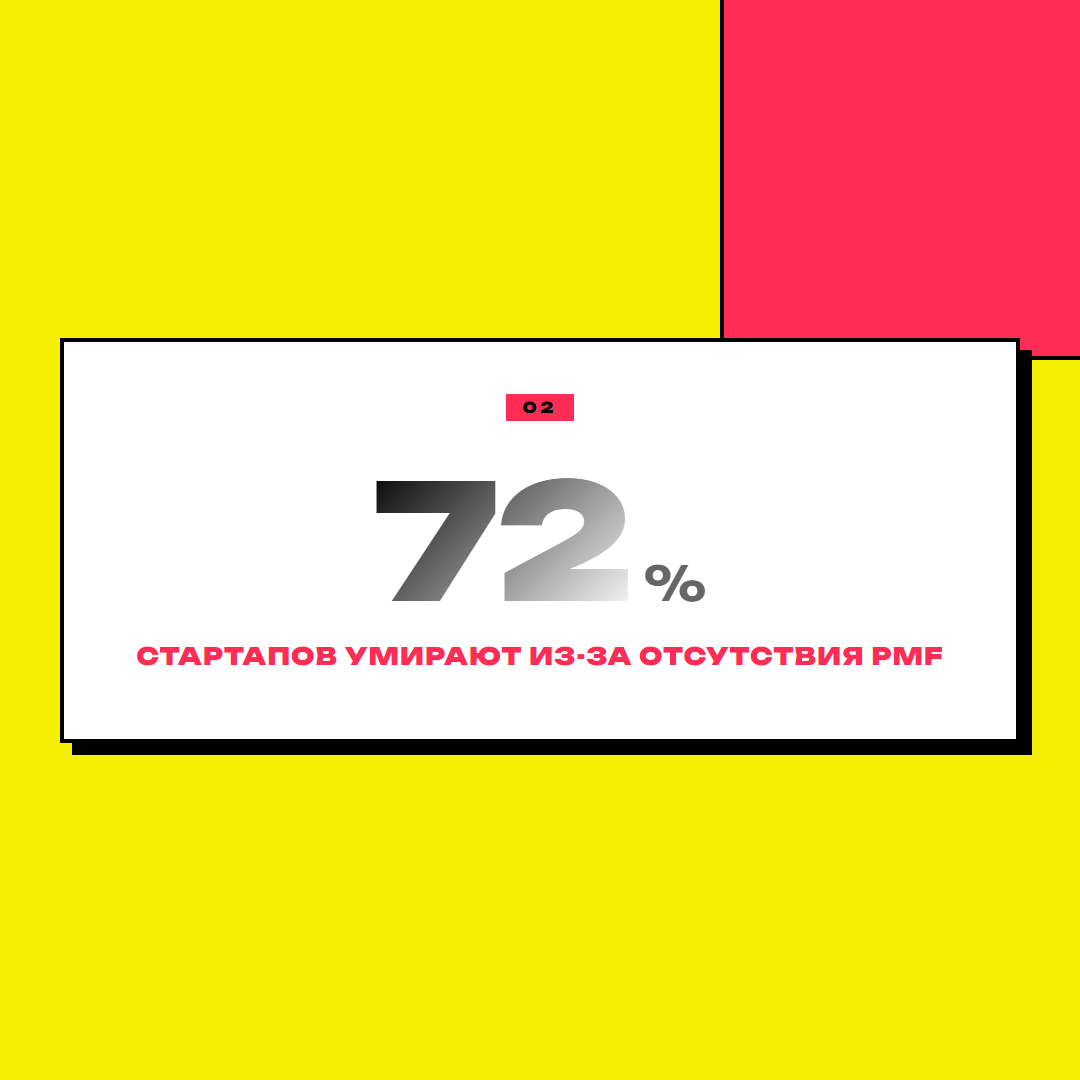
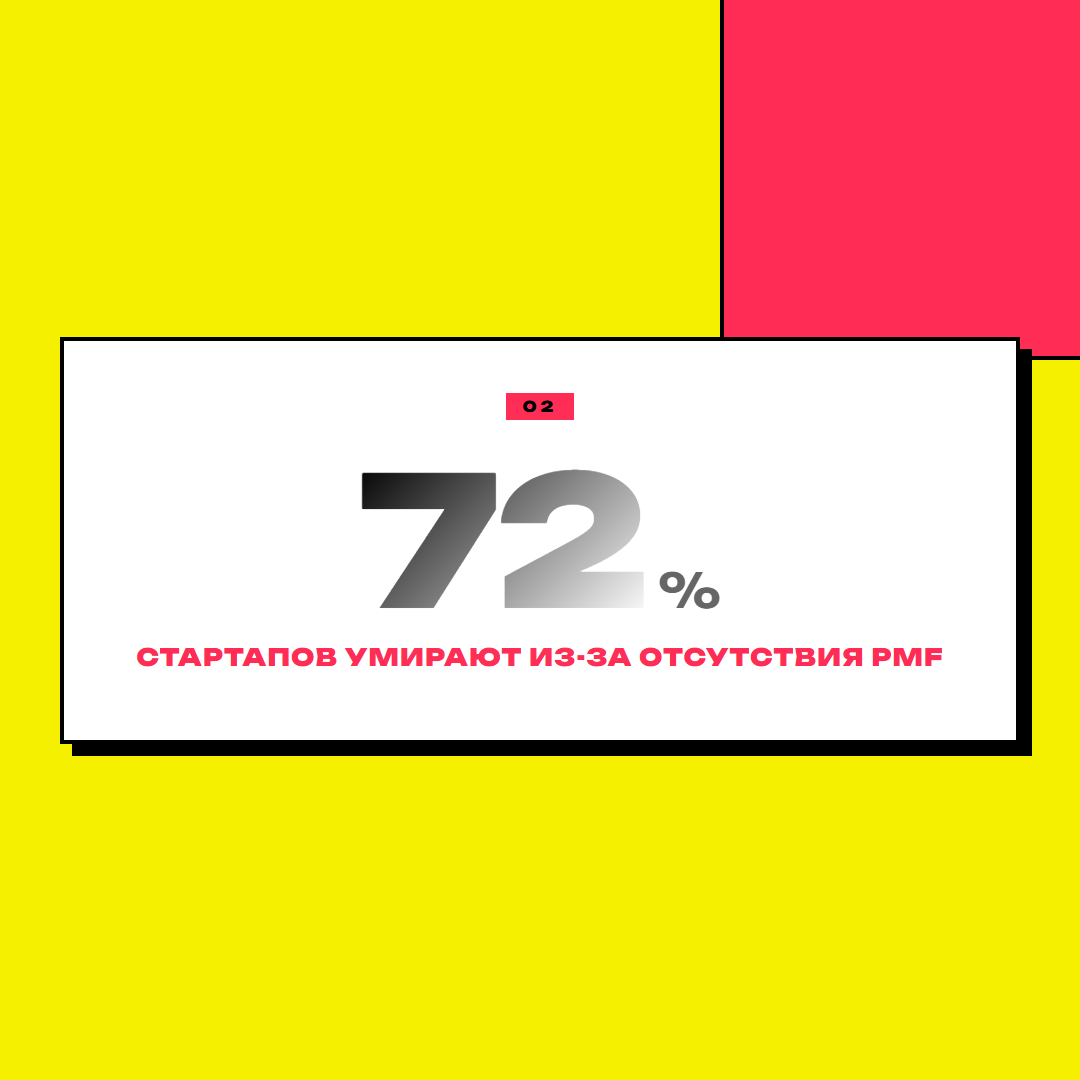
v3.1: Fix MCP entry path, enhance visual drama, regenerate previews

diff --git a/src/core/slideLayouts.ts b/src/core/slideLayouts.ts
@@ -355,14 +355,15 @@ export const LAYOUTS_CSS = `
   margin: 20px 0;
 }
 .hero-num {
-  font-size: 160px;
+  font-size: 180px;
   font-weight: 900;
-  line-height: 1;
+  line-height: 0.9;
   background: linear-gradient(135deg, currentColor 0%, rgba(255,255,255,0.6) 100%);
   -webkit-background-clip: text;
   -webkit-text-fill-color: transparent;
   background-clip: text;
-  letter-spacing: -3px;
+  letter-spacing: -5px;
+  filter: drop-shadow(0 0 40px rgba(255,255,255,0.08));
 }
 .hero-unit {
   font-size: 48px;
@@ -511,17 +512,18 @@ export const LAYOUTS_CSS = `
   min-width: 0;
 }
 .step-num {
-  width: 52px;
-  height: 52px;
+  width: 56px;
+  height: 56px;
   border-radius: 50%;
-  background: rgba(255,255,255,0.1);
+  background: linear-gradient(135deg, rgba(255,255,255,0.12), rgba(255,255,255,0.04));
   border: 2px solid rgba(255,255,255,0.2);
   display: flex;
   align-items: center;
   justify-content: center;
-  font-size: 24px;
+  font-size: 26px;
   font-weight: 900;
   flex-shrink: 0;
+  box-shadow: 0 4px 20px rgba(0,0,0,0.15);
 }
 .step-label {
   font-size: 16px;
@@ -539,11 +541,12 @@ export const LAYOUTS_CSS = `
   text-align: center;
 }
 .quote-mark {
-  font-size: 140px;
-  line-height: 0.7;
-  opacity: 0.12;
+  font-size: 160px;
+  line-height: 0.65;
+  opacity: 0.15;
   font-family: Georgia, serif;
-  margin-bottom: 12px;
+  margin-bottom: 16px;
+  filter: drop-shadow(0 0 30px rgba(255,255,255,0.05));
 }
 .quote-text {
   font-size: 44px;
@@ -609,13 +612,14 @@ export const LAYOUTS_CSS = `
 }
 .cmp-head {
   flex: 1;
-  font-size: 18px;
+  font-size: 19px;
   font-weight: 800;
   text-transform: uppercase;
-  letter-spacing: 0.06em;
-  padding: 14px 20px;
+  letter-spacing: 0.08em;
+  padding: 16px 20px;
   text-align: center;
   border-radius: 14px;
+  box-shadow: 0 4px 16px rgba(0,0,0,0.1);
 }
 .cmp-card {
   flex: 1;
@@ -645,7 +649,11 @@ export const LAYOUTS_CSS = `
   text-align: center;
   max-width: 95%;
 }
-.emoji-large { font-size: 72px !important; margin-bottom: 16px; }
+.emoji-large {
+  font-size: 80px !important;
+  margin-bottom: 20px;
+  filter: drop-shadow(0 0 30px rgba(255,255,255,0.15));
+}
 `;
 
 // ── Helpers ───────────────────────────────────────────────────────────────────

diff --git a/README.md b/README.md
@@ -37,7 +37,7 @@
 > 💬 Склонируй репозиторий `https://github.com/fsbtactic-code/aim-instagram-suite.git` на рабочий стол в папку `aim-instagram-suite`. <br/>
 ***[Только для Windows]*** Убедись, что стоят C++ Build Tools (`winget install Microsoft.VisualStudio.2022.BuildTools --override "--quiet --add Microsoft.VisualStudio.Workload.VCTools"`).<br/>
 Затем зайди в папку локальным терминалом, выполни `npm install` и `npm run build`. 
-После чего зарегистрируй этот MCP сервер как `node АБСОЛЮТНЫЙ_ПУТЬ/build/index.js` в свои настройки.
+После чего зарегистрируй этот MCP сервер как `node АБСОЛЮТНЫЙ_ПУТЬ/dist/index.js` в свои настройки.
 
 📖 [Подробная пошаговая инструкция для разных программ (Claude Desktop, и др.)](INSTALL.md)
 

diff --git a/docs/TECH_ARCHITECTURE.md b/docs/TECH_ARCHITECTURE.md
@@ -69,5 +69,5 @@
    Все генерации упадут в папку \`carousel_test\`.
 5. Для отладки MCP сервера используйте стандартный инспектор:
    \`\`\`bash
-   npx @modelcontextprotocol/inspector node build/index.js
+   npx @modelcontextprotocol/inspector node dist/index.js
    \`\`\`
